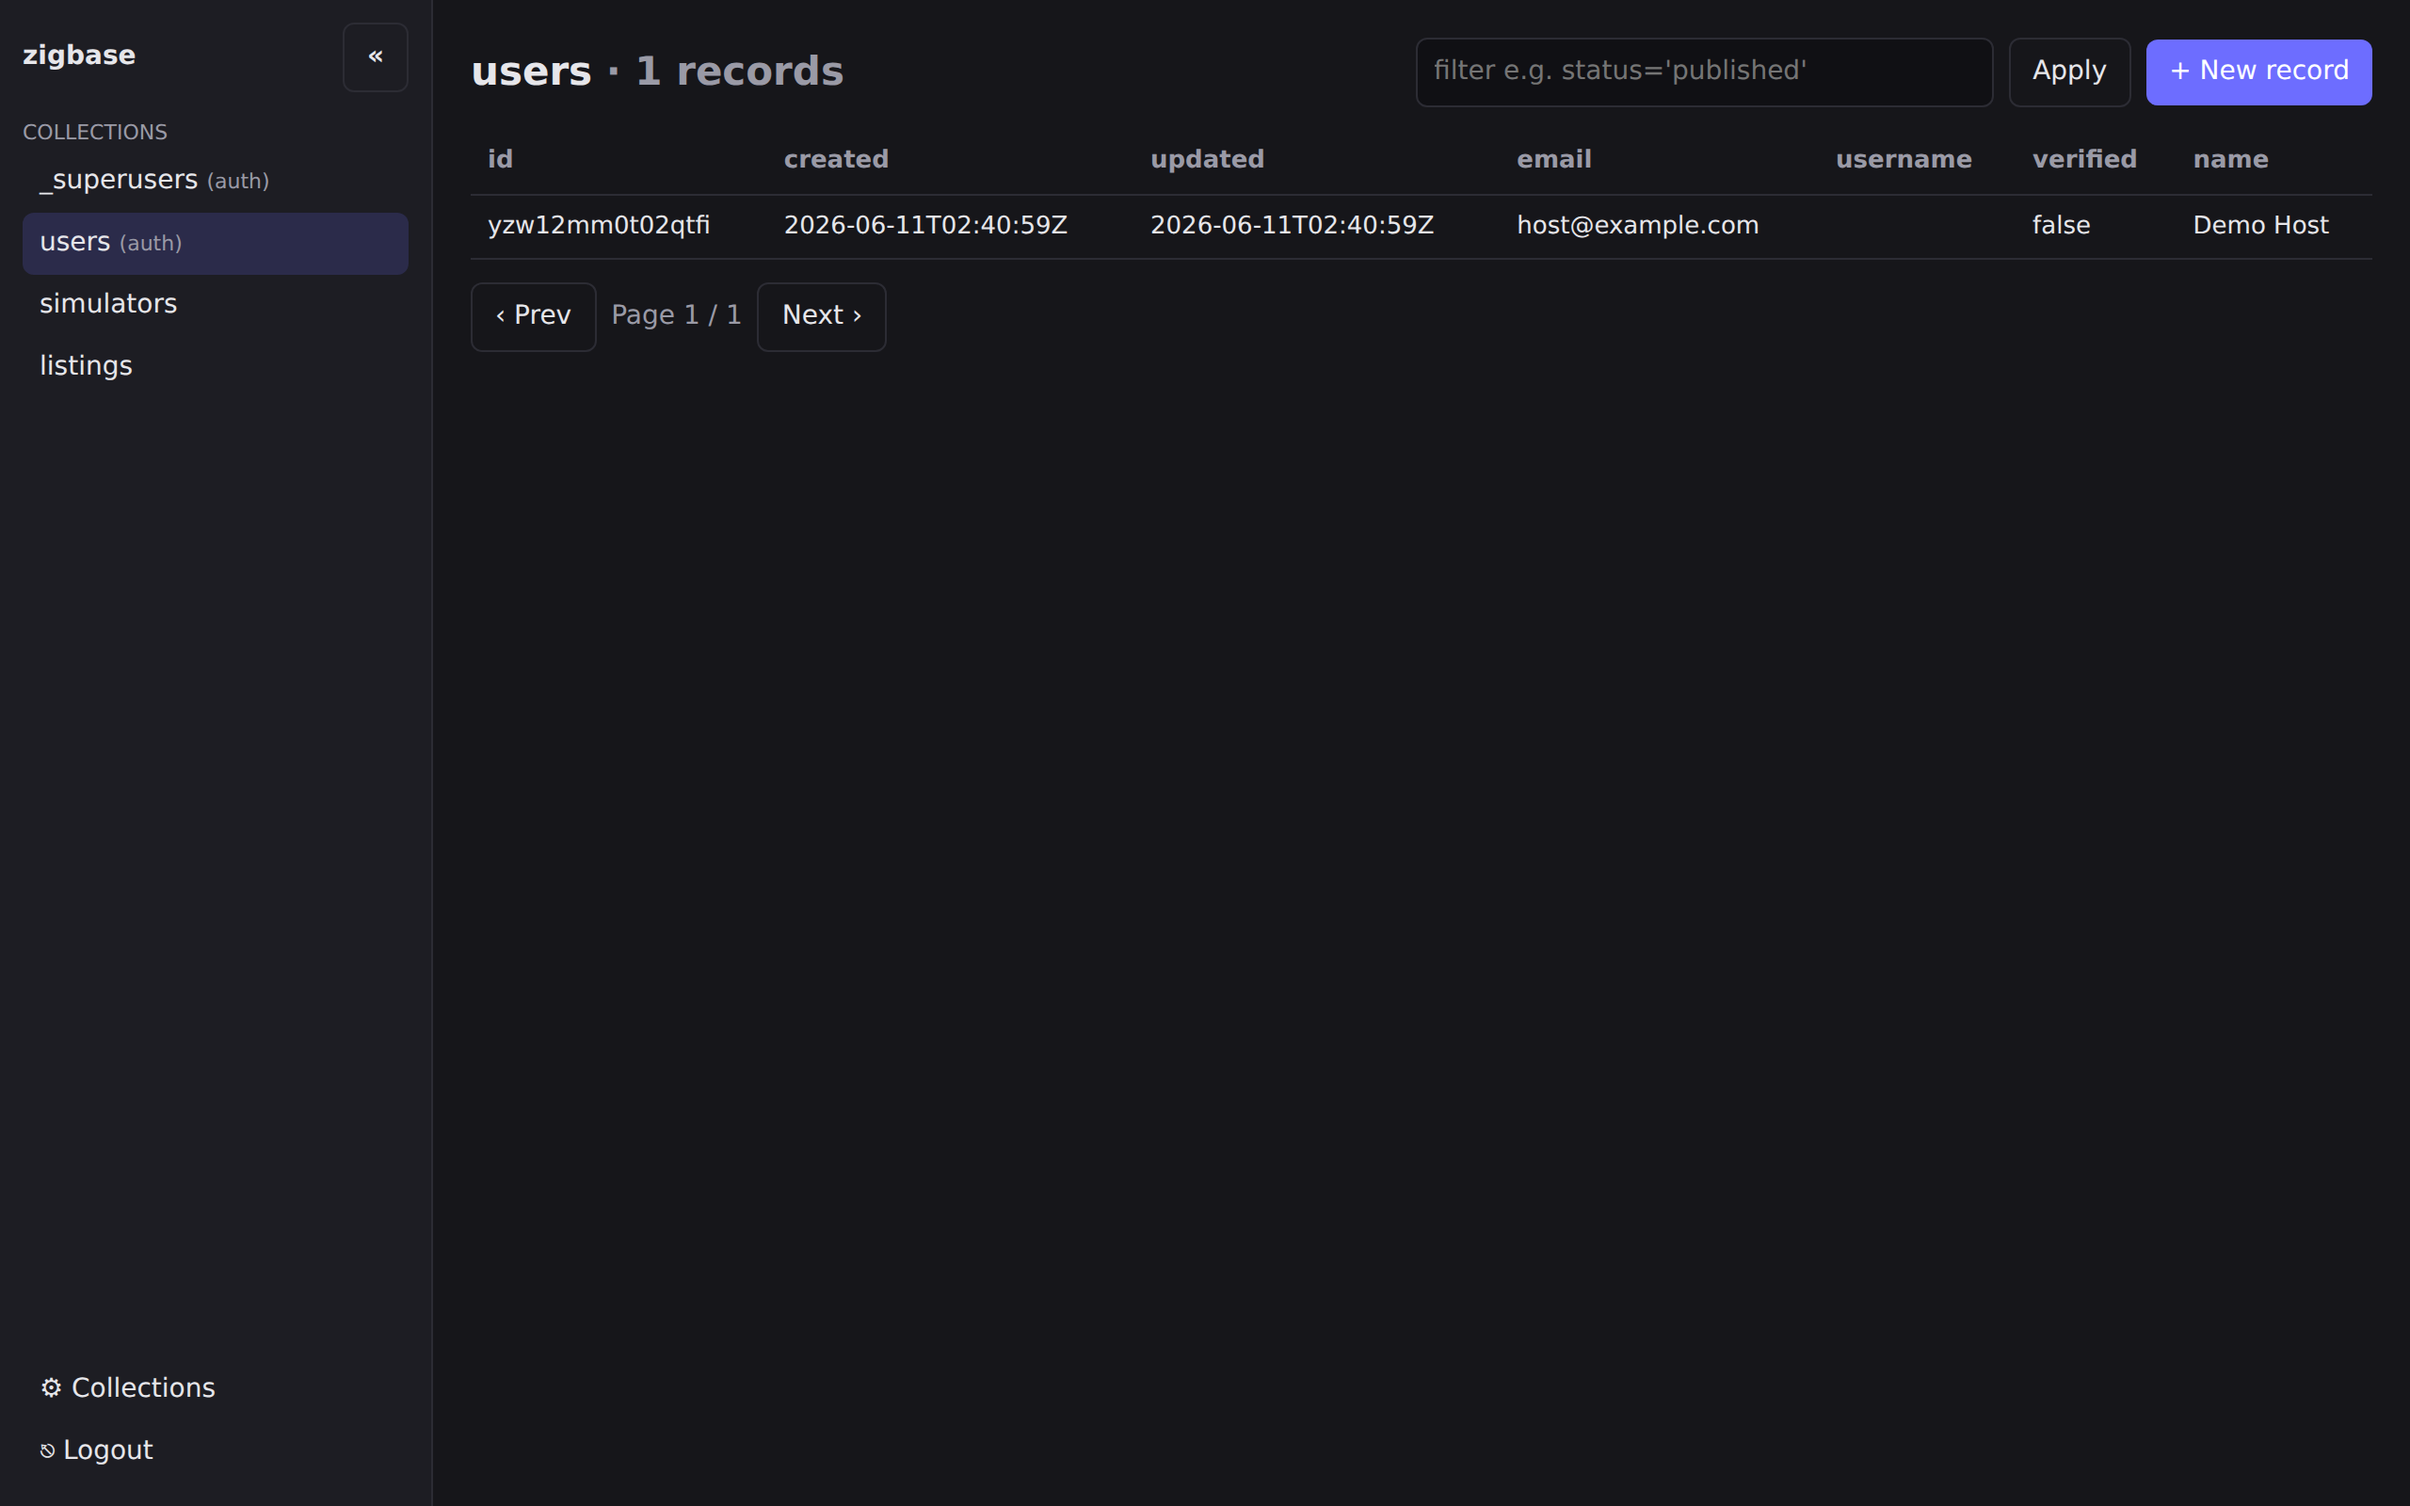
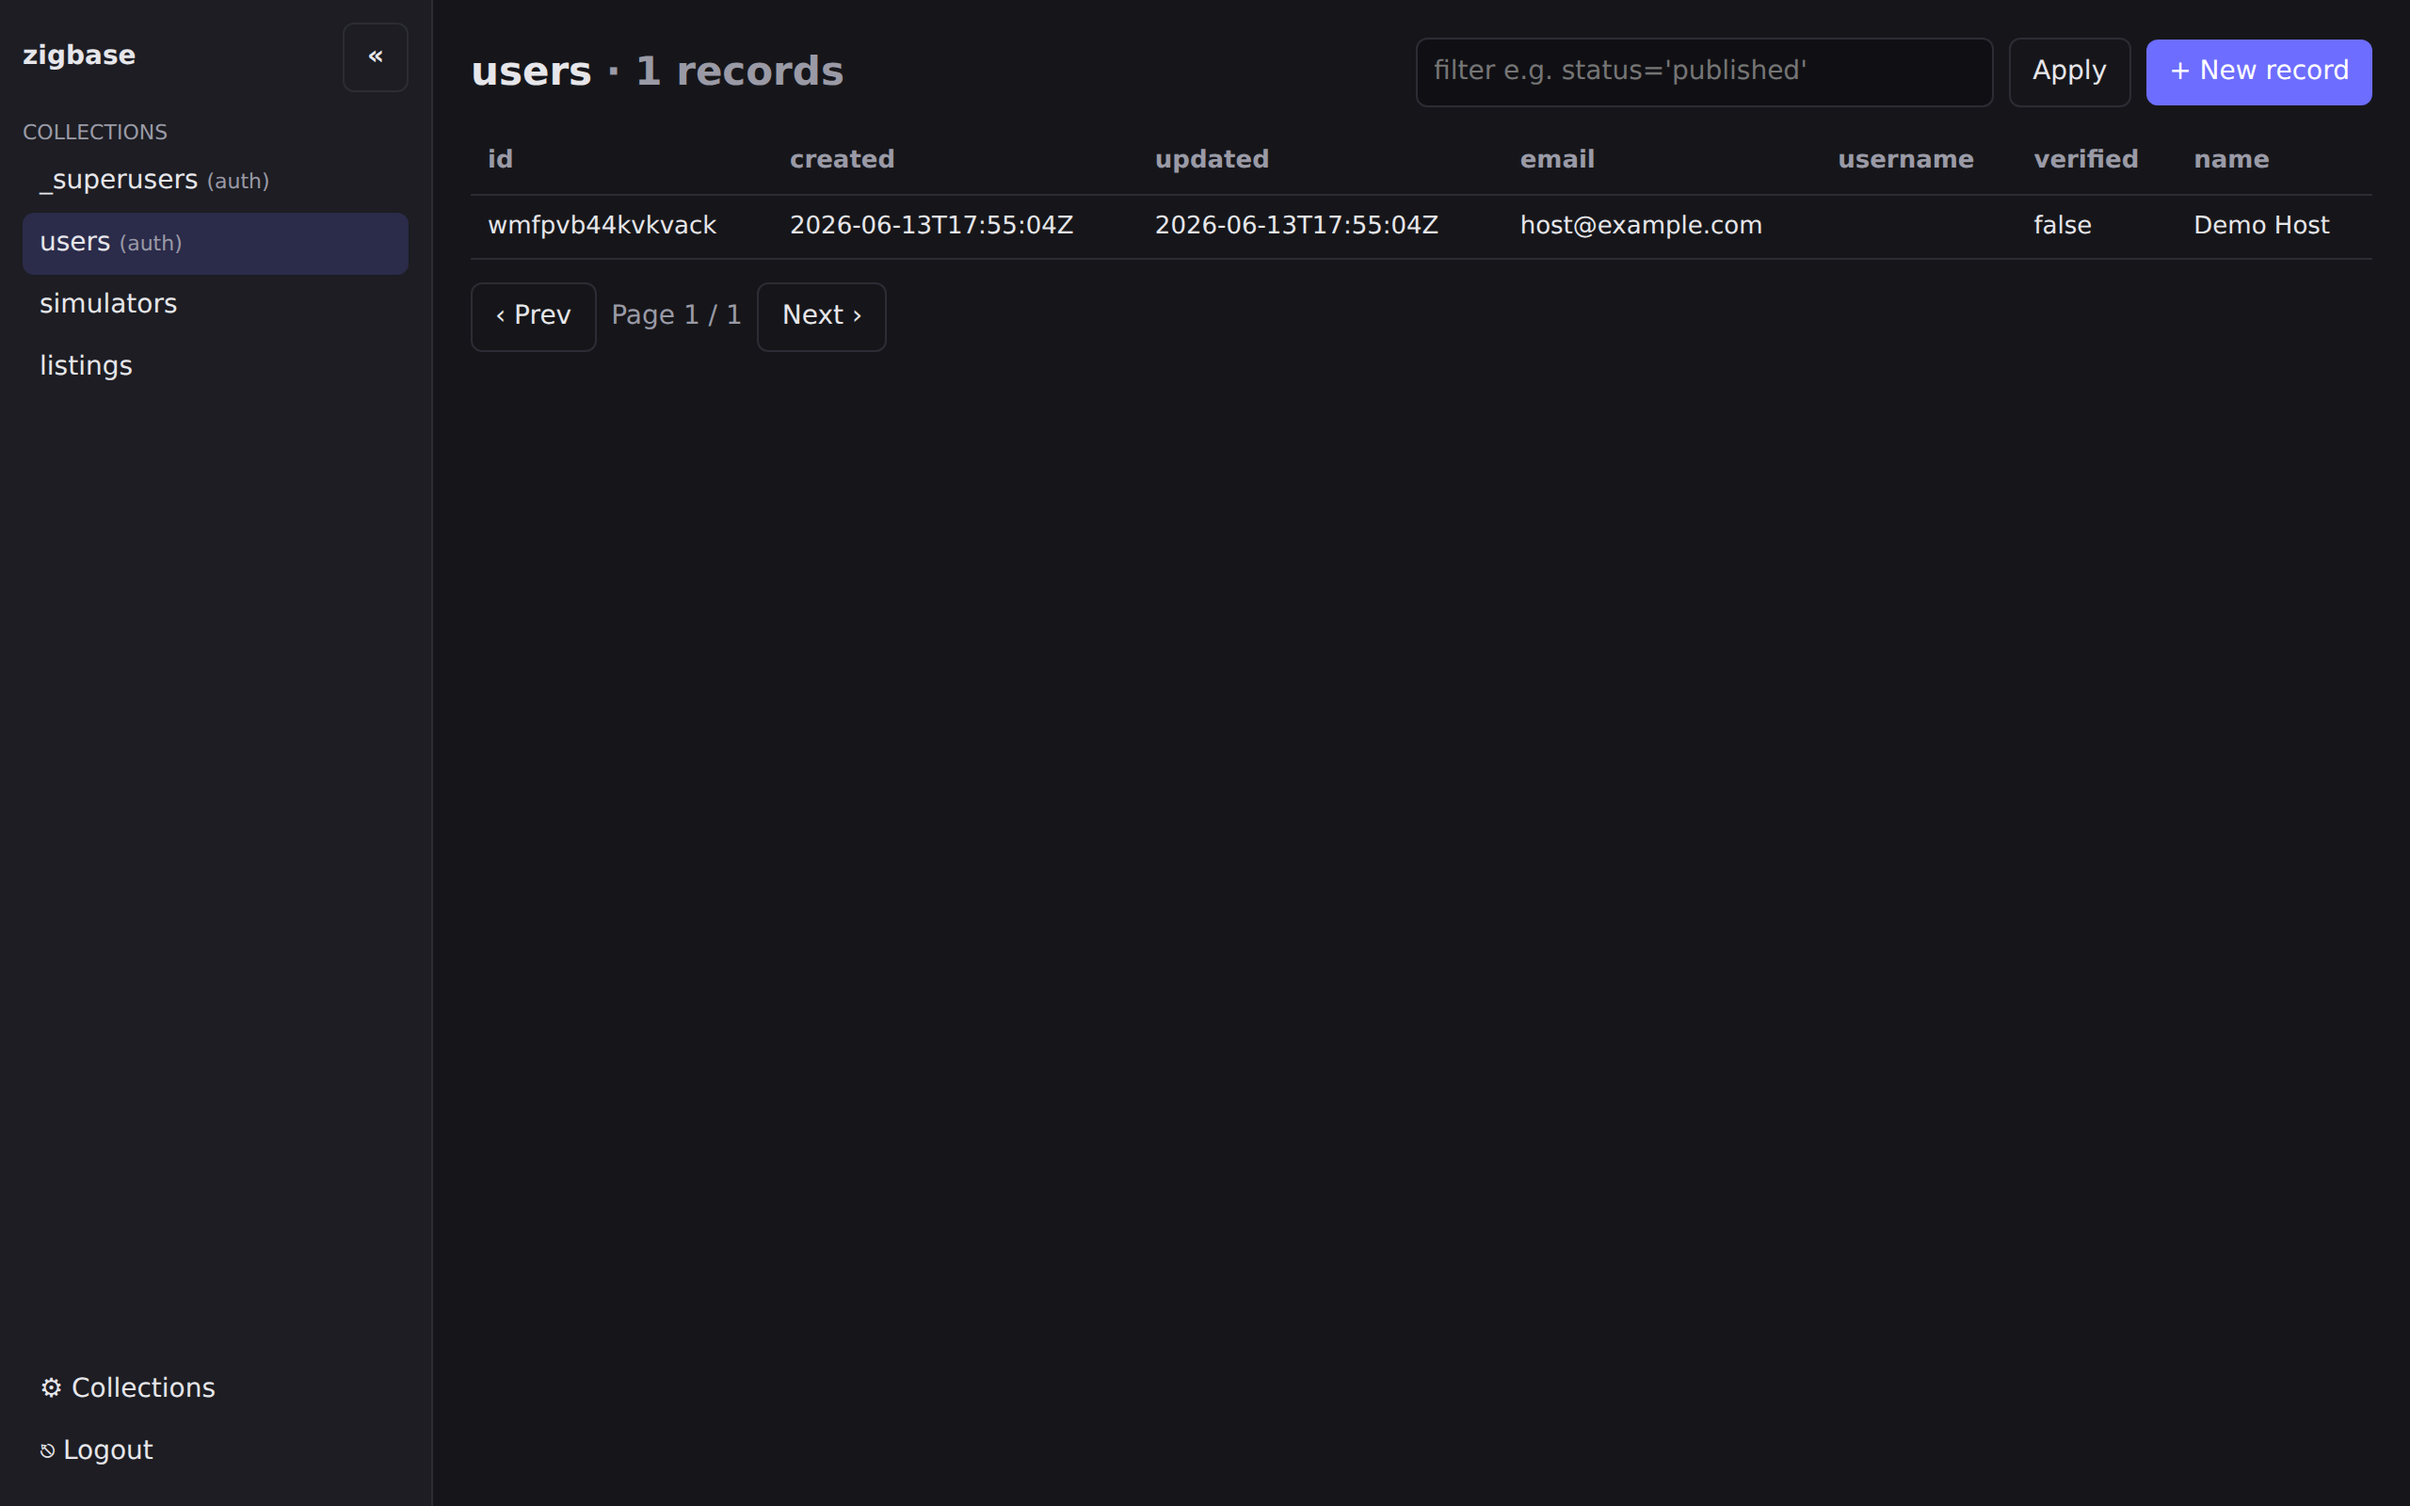
fix(screenshots,admin): adapt tooling to #8 security changes; fix unusable expr rule mode
PR #8's hardening broke the screenshot pipeline and shipped a rule-editor
bug. This fixes both and regenerates the affected admin screenshots.

screenshots.sh:
- Pass --insecure-cookies on every `serve` launch (dashboard, tutorial,
  blog, golfsim, plugins) so the auth cookie is stored over plain HTTP now
  that cookie_secure defaults to true.
- Use a >=32-byte JWT secret default; the old 9-byte "devsecret" is now
  rejected by the weak-secret check.
- Drive the new three-state rule editor: users list/view/createRule set to
  PUBLIC (@public open signup), update/deleteRule expressions
  (@request.auth.id = id); listings' five rules set via expr mode. Register
  a page.on("dialog", accept) handler before triggering the PUBLIC confirm.

src/admin/app.js:
- Fix a #8 regression: selecting "Expression" seeded the rule with "",
  which derived back to Locked, so the input never rendered and an
  expression could never be typed. Track per-rule explicit-expr state so
  the input stays visible while empty. F3 semantics unchanged (empty still
  saves as Locked, @public as public).

tests/admin/test_schema.py:
- Add a regression test: locked -> Expression reveals the input, types and
  persists an expression rule.

Regenerated: admin-rules-listings.png (new three-state editor with the
listings owner-scoped expression rules), admin-records-users.png,
admin-new-record-listing.png, admin-records-listings.png.

diff --git a/src/admin/app.js b/src/admin/app.js
@@ -208,6 +208,10 @@ function SchemaEditor({ name }) {
   const [allCols, setAllCols] = useState([]);
   const [err, setErr] = useState('');
   const [fieldErrs, setFieldErrs] = useState({});
+  // Rules whose mode was explicitly switched to "Expression" but whose value is
+  // still empty. Without this, an empty expression (v === '') derives back to
+  // Locked and the text input never appears, making it impossible to TYPE one.
+  const [exprRules, setExprRules] = useState({});
   useEffect(() => {
     API.collections().then(cs => {
       setAllCols(cs);
@@ -282,19 +286,23 @@ function SchemaEditor({ name }) {
           // per record. Render the three states DISTINCTLY so a wide-open rule can never be set
           // by accident (and confirm before opening one up).
           const isPublic = v === PUBLIC_RULE;
-          const isLocked = v == null || v === '';
+          // An empty value is Locked — UNLESS the user explicitly picked
+          // Expression for this rule (so they can type one into a blank input).
+          const isLocked = (v == null || v === '') && !exprRules[r];
           const mode = isPublic ? 'public' : (isLocked ? 'locked' : 'expr');
           function onMode(e) {
             const m = e.target.value;
-            if (m === 'locked') return setRule(r, null);
+            if (m === 'locked') { setExprRules({ ...exprRules, [r]: false }); return setRule(r, null); }
             if (m === 'public') {
               if (!confirm('Make ' + r + ' PUBLIC?\n\nAnyone on the internet will be able to ' +
                   r.replace('Rule','') + ' records in this collection, with no authentication.')) {
                 return; // leave the select where it was
               }
+              setExprRules({ ...exprRules, [r]: false });
               return setRule(r, PUBLIC_RULE);
             }
-            // switching to expression: seed with the current expression or empty text
+            // switching to expression: keep the input visible even while empty
+            setExprRules({ ...exprRules, [r]: true });
             return setRule(r, (typeof v === 'string' && v !== PUBLIC_RULE && v !== '') ? v : '');
           }
           return html`<div class="field" key=${r}>

diff --git a/tests/admin/test_schema.py b/tests/admin/test_schema.py
@@ -103,3 +103,30 @@ def test_edit_rules_lock_toggle(page):
     page.click('[data-test=tab-rules]')
     assert page.input_value('[data-test=rulemode-viewRule]') == 'locked'
     assert page.is_visible('[data-test=locktag-viewRule]')
+
+
+def test_edit_rules_expression_from_locked(page):
+    # Regression: selecting "Expression" on a Locked rule must REVEAL the text
+    # input and let you type one. Previously the empty seed value derived back to
+    # Locked, so the input never rendered and an expression could never be set.
+    login(page)
+    api_request(page, "POST", "/api/collections", {"name": "memos", "type": "base", "fields": [{"id": "", "name": "body", "type": "text", "options": {}}]})
+    page.goto("/_/?t=1#/collections/memos")
+    page.wait_for_selector('[data-test=schema-editor]')
+    page.click('[data-test=tab-rules]')
+    # default is Locked; no expression input yet
+    assert page.input_value('[data-test=rulemode-listRule]') == 'locked'
+    assert page.locator('[data-test=rule-listRule]').count() == 0
+    # switch to Expression -> select stays on "expr" and the input appears even while empty
+    page.select_option('[data-test=rulemode-listRule]', 'expr')
+    assert page.input_value('[data-test=rulemode-listRule]') == 'expr'
+    page.wait_for_selector('[data-test=rule-listRule]', timeout=8000)
+    page.fill('[data-test=rule-listRule]', 'status = "published"')
+    page.click('[data-test=save-collection]')
+    page.wait_for_selector('[data-test=records-view]', timeout=8000)
+    # reload editor: the expression persisted and reads back as Expression mode
+    page.goto("/_/?t=2#/collections/memos")
+    page.wait_for_selector('[data-test=schema-editor]', timeout=8000)
+    page.click('[data-test=tab-rules]')
+    assert page.input_value('[data-test=rulemode-listRule]') == 'expr'
+    assert page.input_value('[data-test=rule-listRule]') == 'status = "published"'
